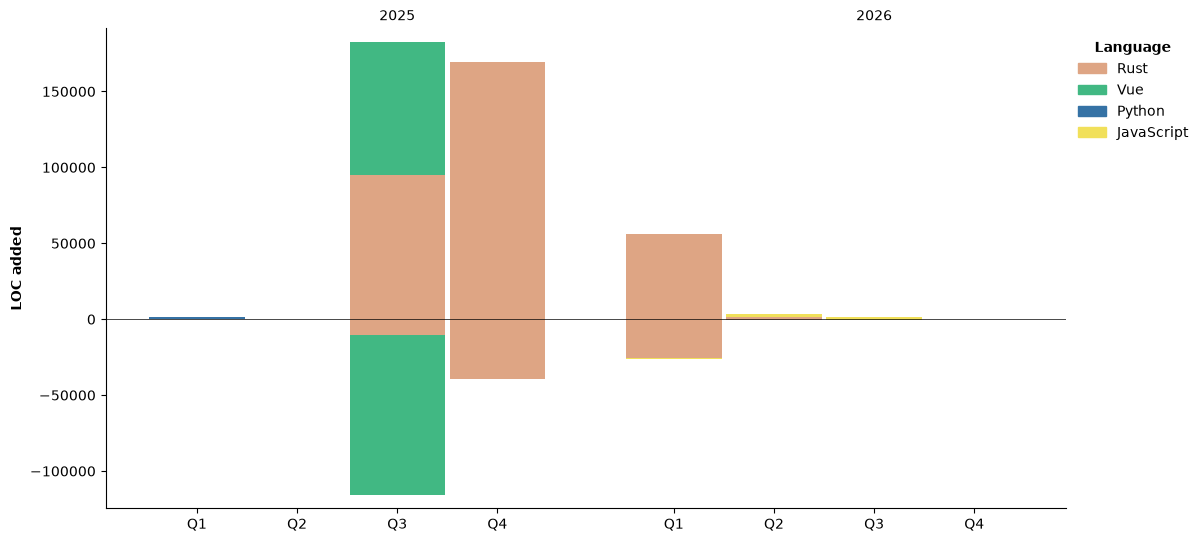
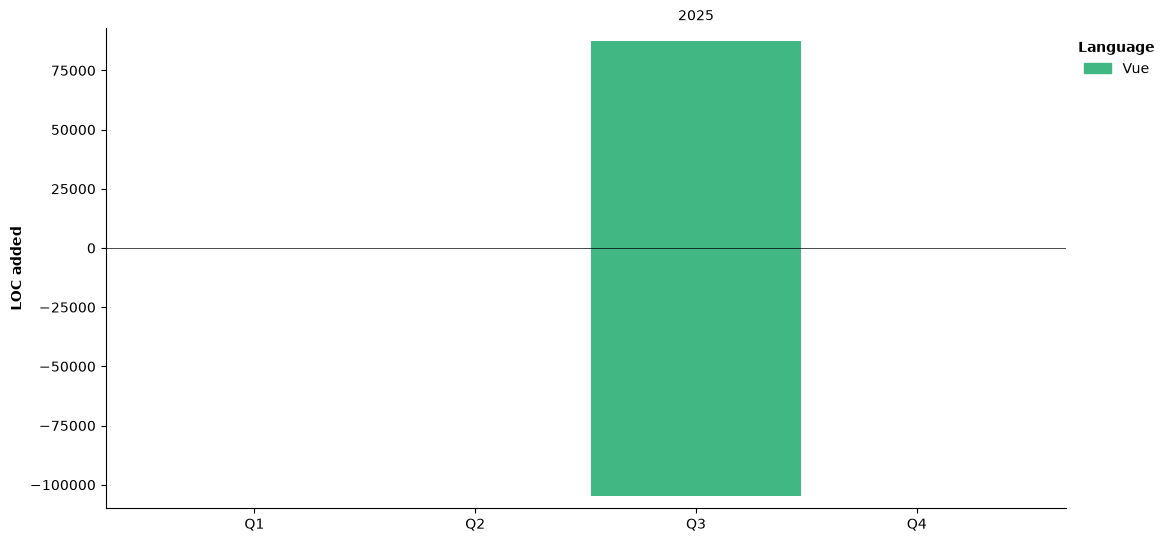
Updated with Dev Metrics

diff --git a/README.md b/README.md
@@ -43,36 +43,16 @@
 
 ![Profile Views](http://img.shields.io/badge/Profile%20Views-0-blue?style=flat)
 
-**🐱 My GitHub Data** 
-
-> 📦 1.1 MB Used in GitHub's Storage 
- > 
-> 🏆 207 Contributions in the Year 2026
- > 
-> 🚫 Not Opted to Hire
- > 
-> 📜 4 Public Repositories 
- > 
-> 🔑 3 Private Repositories 
- > 
-**I'm an Early 🐤** 
-
-```text
-🌞 Morning                329 commits         █████████████░░░░░░░░░░░░   50.62 % 
-🌆 Daytime                239 commits         █████████░░░░░░░░░░░░░░░░   36.77 % 
-🌃 Evening                78 commits          ███░░░░░░░░░░░░░░░░░░░░░░   12.00 % 
-🌙 Night                  4 commits           ░░░░░░░░░░░░░░░░░░░░░░░░░   00.62 % 
-```
 📅 **I'm Most Productive on Tuesday** 
 
 ```text
-Monday                   143 commits         ██████░░░░░░░░░░░░░░░░░░░   22.00 % 
-Tuesday                  198 commits         ████████░░░░░░░░░░░░░░░░░   30.46 % 
-Wednesday                134 commits         █████░░░░░░░░░░░░░░░░░░░░   20.62 % 
-Thursday                 100 commits         ████░░░░░░░░░░░░░░░░░░░░░   15.38 % 
-Friday                   60 commits          ██░░░░░░░░░░░░░░░░░░░░░░░   09.23 % 
-Saturday                 8 commits           ░░░░░░░░░░░░░░░░░░░░░░░░░   01.23 % 
-Sunday                   7 commits           ░░░░░░░░░░░░░░░░░░░░░░░░░   01.08 % 
+Monday                   28 commits          ███░░░░░░░░░░░░░░░░░░░░░░   13.86 % 
+Tuesday                  96 commits          ████████████░░░░░░░░░░░░░   47.52 % 
+Wednesday                48 commits          ██████░░░░░░░░░░░░░░░░░░░   23.76 % 
+Thursday                 26 commits          ███░░░░░░░░░░░░░░░░░░░░░░   12.87 % 
+Friday                   1 commits           ░░░░░░░░░░░░░░░░░░░░░░░░░   00.50 % 
+Saturday                 0 commits           ░░░░░░░░░░░░░░░░░░░░░░░░░   00.00 % 
+Sunday                   3 commits           ░░░░░░░░░░░░░░░░░░░░░░░░░   01.49 % 
 ```
 
 
@@ -100,24 +80,12 @@ No Activity Tracked This Week
 No AI Coding Activity Tracked This Week
 ```
 
-**I Mostly Code in Rust** 
-
-```text
-Rust                     3 repos             ███████████░░░░░░░░░░░░░░   42.86 % 
-JavaScript               1 repo              ████░░░░░░░░░░░░░░░░░░░░░   14.29 % 
-Vue                      1 repo              ████░░░░░░░░░░░░░░░░░░░░░   14.29 % 
-Python                   1 repo              ████░░░░░░░░░░░░░░░░░░░░░   14.29 % 
-C                        1 repo              ████░░░░░░░░░░░░░░░░░░░░░   14.29 % 
-```
-
-
-
 **Timeline**
 
-![Lines of Code chart](https://raw.githubusercontent.com/DragonIsGone/DragonIsGone/main/assets/bar_graph.png)
+![Lines of Code chart](https://raw.githubusercontent.com/TatureTheFox/TatureTheFox/main/assets/bar_graph.png)
 
 
- Last Updated on 01/11/2026 02:45:27 UTC
+ Last Updated on 01/11/2026 04:47:57 UTC
 <!--END_SECTION:waka-->
 
   </div></td></tr>
